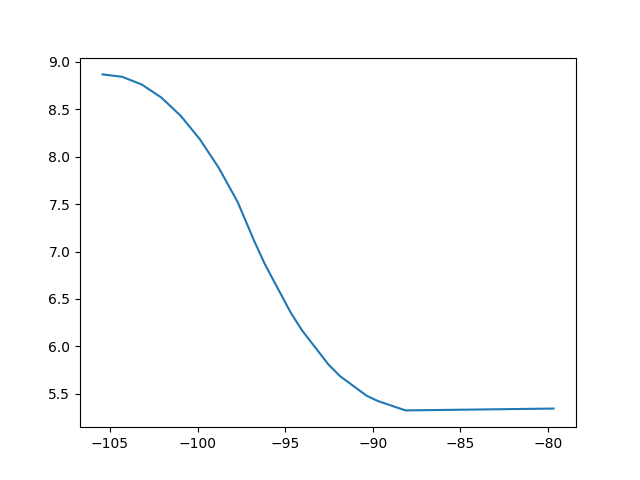
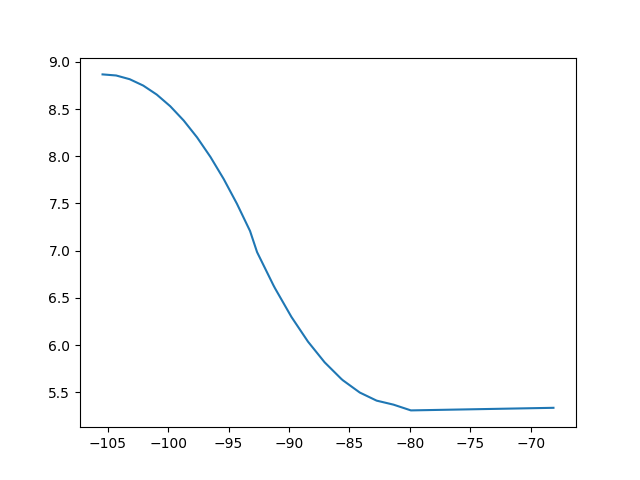
Repush

diff --git a/src/pdm4ar/exercises/ex12/agent.py b/src/pdm4ar/exercises/ex12/agent.py
@@ -24,7 +24,7 @@ import math
 
 @dataclass(frozen=True)
 class Pdm4arAgentParams:
-    numb_of_steps: int = 41  # number of points for the trajectory (equal to number of points of our trajectory)
+    a = 0  # number of points for the trajectory (equal to number of points of our trajectory)
 
 
 class Pdm4arAgent(Agent):
@@ -44,6 +44,8 @@ class Pdm4arAgent(Agent):
     def __init__(self):
         # feel free to remove/modify  the following
         self.params = Pdm4arAgentParams()
+        self.cars_on_same_lanelet = {}  # Name: PlayersObservations: state, occupancy
+        self.cars_on_goal_lanelet = {}  # ""
 
     def on_episode_init(self, init_obs: InitSimObservations):
         """This method is called by the simulator only at the beginning of each simulation.
@@ -53,7 +55,7 @@ class Pdm4arAgent(Agent):
         self.sg = init_obs.model_geometry
         self.sp = init_obs.model_params
         self.radius = (
-            calculate_car_turning_radius(self.sg.lr + self.sg.lf, self.sp.delta_max).min_radius * 10
+            calculate_car_turning_radius(self.sg.lr + self.sg.lf, self.sp.delta_max).min_radius * 20
         )  # calculate the minimum turning radius of the car
 
         # Create a dictionary to store the speeds of other agents
@@ -67,6 +69,10 @@ class Pdm4arAgent(Agent):
 
         self.trajectory_started = False
 
+        self.goal_ID = self.lanelet_network.find_lanelet_by_position([self.control_points[1].q.p])[0][0]
+        self.orientation = self.goal.ref_lane.control_points[0].q.theta
+        self.scenario = init_obs.dg_scenario.lanelet_network
+
     def get_commands(self, sim_obs: SimObservations) -> VehicleCommands:
         """This method is called by the simulator every dt_commands seconds (0.1s by default).
         Do not modify the signature of this method.
@@ -78,12 +84,93 @@ class Pdm4arAgent(Agent):
         """
         current_state = sim_obs.players[self.name].state
 
+        my_position = [np.array([current_state.x, current_state.y])]
+        my_lanelet = self.scenario.find_lanelet_by_position(my_position)[0][0]
+
+        ### Update neighborhood ###
+        self.cars_on_same_lanelet.clear()
+        self.cars_on_goal_lanelet.clear()
+        front_on_same, front_on_goal = None, None  # PlayersObservations: state, occupancy
+        rear_on_same, rear_on_goal = None, None
+
+        for cars in sim_obs.players:
+            if cars == self.name:
+                continue
+            car = sim_obs.players[cars]
+            car_position = [np.array([car.state.x, car.state.y])]
+            car_lanelet = self.scenario.find_lanelet_by_position(car_position)[0][0]
+            if car_lanelet == my_lanelet:  # NOTE: USELESS IF MY_LANELET IS THE GOAL LANELET
+                self.cars_on_same_lanelet[cars] = car
+                if car.state.x > current_state.x and (
+                    self.orientation < np.pi / 2 or self.orientation > 3 * np.pi / 2
+                ):  # from sx to dx (NOTE: NO vertical lane because check on x-coordinates)
+                    front_on_same = (
+                        car if front_on_same is None or car.state.x < front_on_same.state.x else front_on_same
+                    )
+                elif car.state.x < current_state.x and (
+                    self.orientation < np.pi / 2 or self.orientation > 3 * np.pi / 2
+                ):
+                    rear_on_same = car if rear_on_same is None or car.state.x > rear_on_same.state.x else rear_on_same
+                continue
+            if car_lanelet == self.goal_ID:
+                self.cars_on_goal_lanelet[cars] = car
+                if car.state.x > current_state.x and (self.orientation < np.pi / 2 or self.orientation > 3 * np.pi / 2):
+                    front_on_goal = (
+                        car if front_on_goal is None or car.state.x < front_on_goal.state.x else front_on_goal
+                    )
+                elif car.state.x < current_state.x and (
+                    self.orientation < np.pi / 2 or self.orientation > 3 * np.pi / 2
+                ):
+                    rear_on_goal = car if rear_on_goal is None or car.state.x > rear_on_goal.state.x else rear_on_goal
+                elif car.state.x < current_state.x and (
+                    self.orientation > np.pi / 2 or self.orientation < 3 * np.pi / 2
+                ):
+                    front_on_goal = (
+                        car if front_on_goal is None or car.state.x > front_on_goal.state.x else front_on_goal
+                    )
+                elif car.state.x > current_state.x and (
+                    self.orientation > np.pi / 2 or self.orientation < 3 * np.pi / 2
+                ):
+                    rear_on_goal = car if rear_on_goal is None or car.state.x < rear_on_goal.state.x else rear_on_goal
+                continue
+
         # If the trajectory is not started, compute the trajectory
         if not self.trajectory_started:
             current_state = sim_obs.players[self.name].state
 
+            ############################################################################################################
+            # TRAJECTORY
+            # Initial state for the dubins
+            current_state = sim_obs.players[self.name].state
+            # Final speed of the car
+            # Final speed of the car
+            end_speed = current_state.vx
+            if front_on_goal is not None:
+                end_speed = front_on_goal.state.vx
+
+            # Check if the goal lane is on the right side of the car
+            goal_lane_is_right = self.point_is_right(
+                current_state.x,
+                current_state.y,
+                current_state.psi,
+                self.control_points[1].q.p[0],
+                self.control_points[1].q.p[1],
+            )
+
+            self.trajectory = calculate_dubins_path(
+                current_state,
+                end_speed,
+                self.radius,
+                goal_lane_is_right,
+                lane_width=(2 * self.control_points[1].r),
+                wheelbase=self.sg.wheelbase,
+            )
+
+            ############################################################################################################
             # COMPUTE SPEEDS AND ACCELERATIONS OF OTHER AGENTS
             # Save speeds of other agents to compuete their accelerations
+            numb_of_steps = len(self.trajectory)
+
             self.other_speeds = {
                 agent_name: sim_obs.players[agent_name].state.vx
                 for agent_name in sim_obs.players
@@ -113,15 +200,15 @@ class Pdm4arAgent(Agent):
                 agent = sim_obs.players[agent_name]
 
                 # If we don't have accelleration of the agent, set it to 0
-                if agent_name not in self.other_accelerations:
-                    self.other_accelerations[agent_name] = 0
+                # if agent_name not in self.other_accelerations:
+                self.other_accelerations[agent_name] = 0
 
                 if agent_name != self.name:
                     # Compute cumulative delta s for each agent every 0.1 seconds
                     # Use the formula for the accelerated motion to compute the cumulative delta s
                     cumulative_delta_s = [
                         agent.state.vx * 0.1 * step + 0.5 * self.other_accelerations[agent_name] * (0.1 * step) ** 2
-                        for step in range(self.params.numb_of_steps)
+                        for step in range(numb_of_steps)
                     ]
 
                     # Decompose the cumulative delta s into x and y components
@@ -130,40 +217,14 @@ class Pdm4arAgent(Agent):
                             cumulative_delta_s[step] * np.cos(agent.state.psi) + agent.state.x,
                             cumulative_delta_s[step] * np.sin(agent.state.psi) + agent.state.y,
                         )
-                        for step in range(self.params.numb_of_steps)
+                        for step in range(numb_of_steps)
                     ]
-
-            ############################################################################################################
-            # TRAJECTORY
-            # Initial state for the dubins
-            current_state = sim_obs.players[self.name].state
-            # Final speed of the car
-            end_speed = current_state.vx
-
-            # Check if the goal lane is on the right side of the car
-            goal_lane_is_right = self.point_is_right(
-                current_state.x,
-                current_state.y,
-                current_state.psi,
-                self.control_points[1].q.p[0],
-                self.control_points[1].q.p[1],
-            )
-
-            self.trajectory = calculate_dubins_path(
-                current_state,
-                end_speed,
-                self.radius,
-                goal_lane_is_right,
-                lane_width=(2 * self.control_points[1].r),
-                wheelbase=self.sg.wheelbase,
-            )
-
-            # self._plot_print()
 
             ############################################################################################################
             # CHECK IF THE TRAJECTORY OF THE AGENT INTERSECTS WITH THE TRAJECTORIES OF OTHER AGENTS
             # 1. Trasform the trajectory in a list of tuples
-            """trajectory_points = [(tr.x, tr.y) for tr in self.trajectory]  # need to use the points every 0.1 seconds
+            states = list(self.trajectory.values())
+            trajectory_points = [(tr.x, tr.y) for tr in states]  # need to use the points every 0.1 seconds
             agents_collisions = {}
             # 2. Check if the trajectory intersects with the trajectories of other agents
             for agent_name in other_trajectories:
@@ -172,28 +233,17 @@ class Pdm4arAgent(Agent):
                     trajectory_points, other_trajectories[agent_name], self.my_radius, agent_radius
                 )
 
-            ############################################################################################################
-            # COMMANDS
-            # If the trajectory don't collide with other agents, compute the commands to follow the trajectory
             if all(not lst for lst in agents_collisions.values()):
-                # Compute the commands to follow the trajectory
                 self.trajectory_started = True
-            else:
-                # If the trajectory collides with other agents, don't give any command
-                commands = VehicleCommands(acc=0, ddelta=0)
-            """
-            self.trajectory_started = True
+
         # If the trajectory is started compute the commands
         ind = round(float(sim_obs.time) + 0.1, 1)
         if self.trajectory_started and list(self.trajectory.keys())[-1] > float(sim_obs.time):
-            commands = self.compute_actual_commands(current_state, self.trajectory[ind], self.sg.wheelbase)
+            commands = self.compute_actual_commands(current_state, self.trajectory[ind])
 
         if self.trajectory_started and list(self.trajectory.keys())[-1] <= float(sim_obs.time):
             commands = VehicleCommands(acc=0, ddelta=0)
-        """error = np.linalg.norm(
-            current_state.as_ndarray() - self.trajectory[round(float(sim_obs.time) + 0.1, 1)].as_ndarray()
-        )
-        print(f"error {error}")"""
+
         return commands
 
     def point_is_right(self, xQ, yQ, psi, xP, yP):
@@ -214,7 +264,7 @@ class Pdm4arAgent(Agent):
         plt.axis("equal")
         plt.savefig("traiettoria.png")
 
-    def compute_actual_commands(self, current_state, desired_state, wheelbase: float) -> VehicleCommands:
+    def compute_actual_commands(self, current_state, desired_state) -> VehicleCommands:
         """
         This method is called by the simulator to compute the actual commands to be executed
         """
